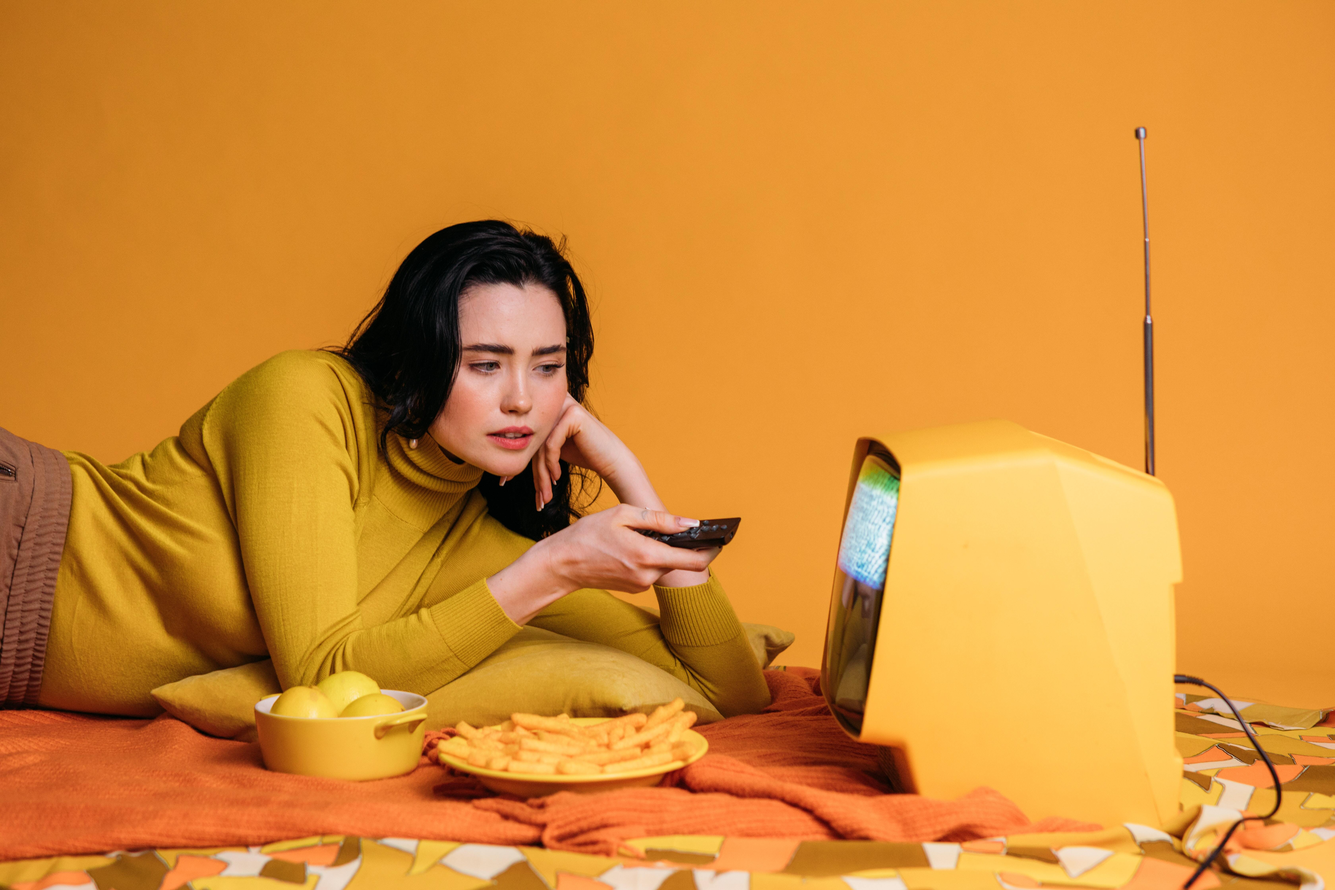
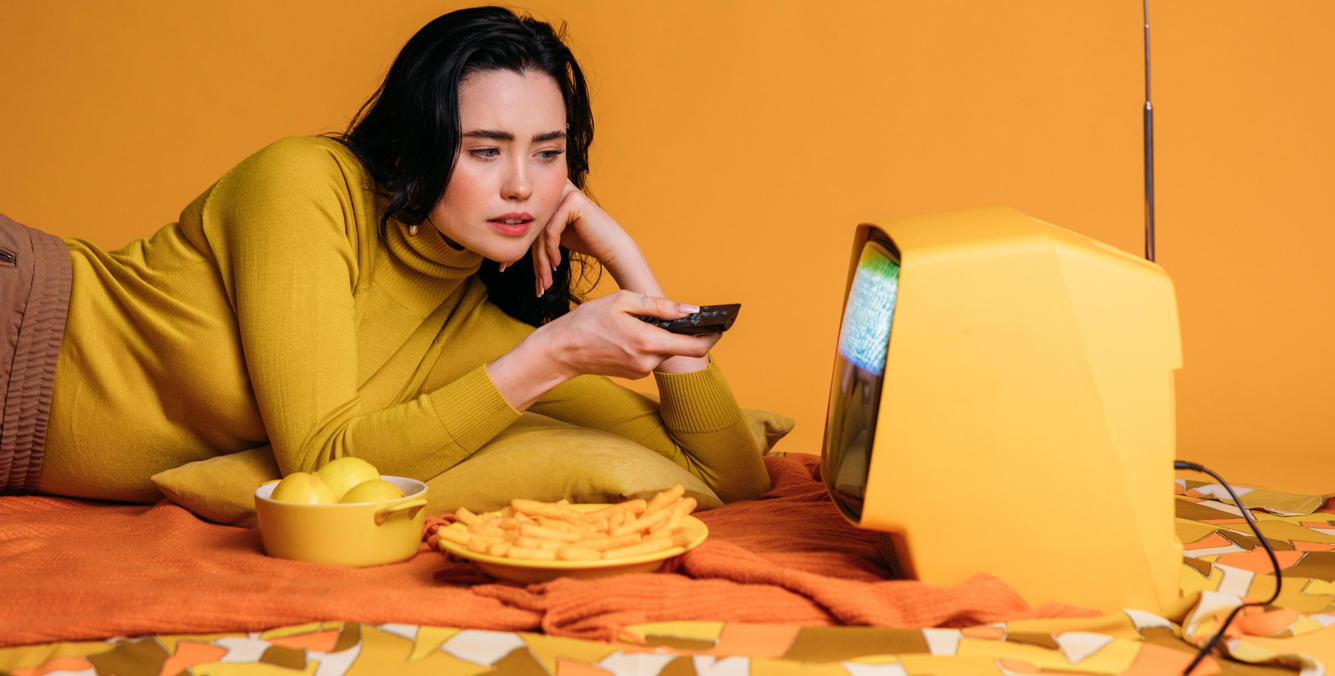
fix(parrallax image resized): changed the image size

diff --git a/js/main.js b/js/main.js
@@ -233,4 +233,7 @@ function closePopUp() {
     localStorage.clear();
     onLoad();
     addToCart();
+    document.getElementById("Subtotal").innerHTML = "$0.00";
+    document.getElementById("TaxTotal").innerHTML = "$0.00";
+    document.getElementById("Total").innerHTML = "$0.00";
 }

diff --git a/css/styles.css b/css/styles.css
@@ -50,7 +50,7 @@ body{
 }
 .parallax {
     /* Set a specific height */
-    min-height: 1000px;
+    min-height: 800px;
 
     /* Create the parallax scrolling effect */
     background-attachment: fixed;
